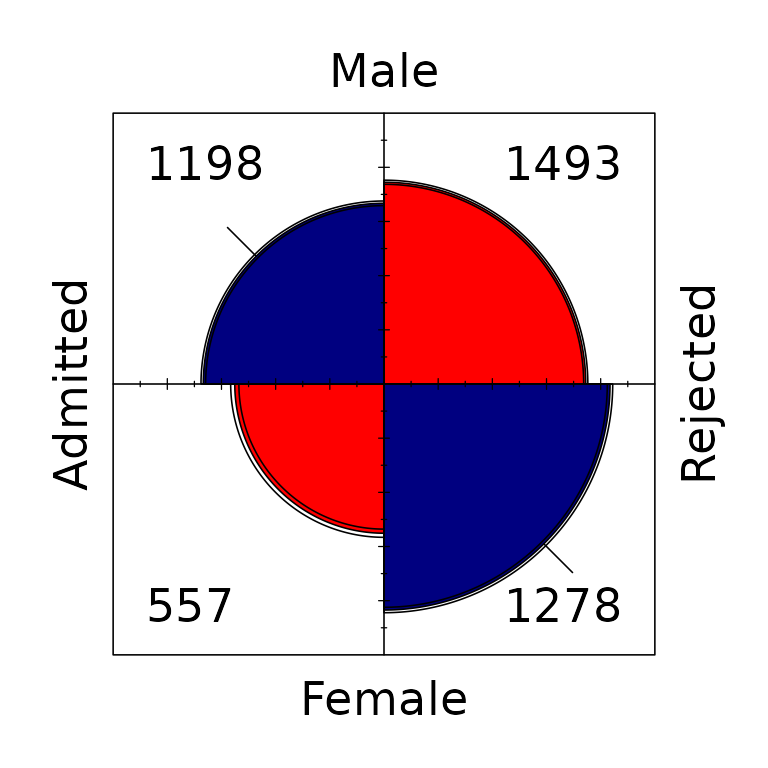
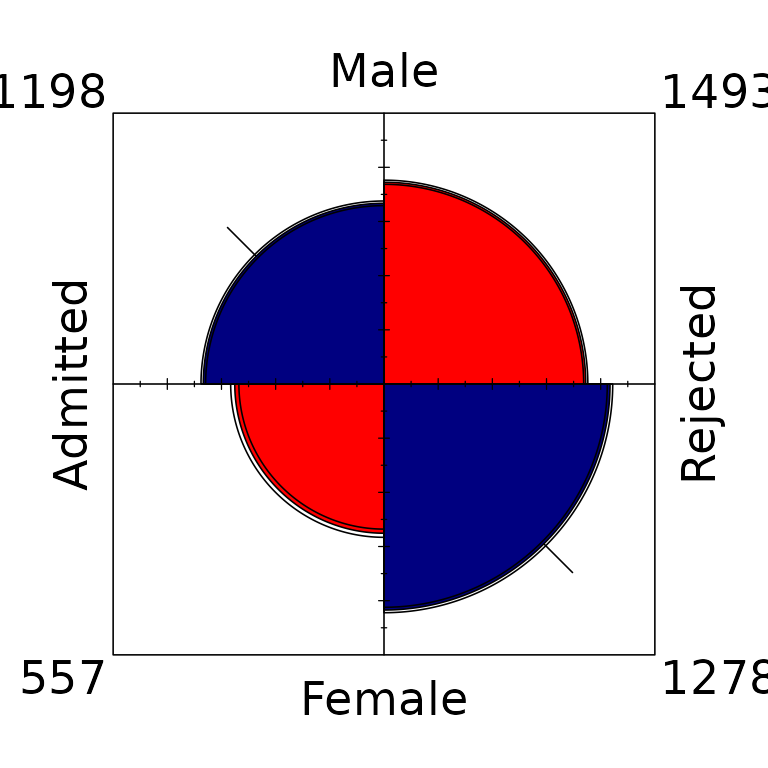
Deploying to gh-pages from @ gklorfine/ggfourfold@94f93e3d0568480470dca3d6199626c47f4bfee2 🚀

diff --git a/HANDOFF.html b/HANDOFF.html
@@ -41,6 +41,16 @@
 <div id="handoff--2026-10-01" class="section level1">
 
 <div class="section level2">
+<h2 id="status-claude-2026-10-01-counts-change-committed-and-pushed-to-main">Status (Claude, 2026-10-01): counts change committed and pushed to main<a class="anchor" aria-label="anchor" href="#status-claude-2026-10-01-counts-change-committed-and-pushed-to-main"></a></h2>
+<p>GK’s three follow-ups are done: layer-wide count values now come from <code>GeomFourfold$setup_params()</code> (no helper columns in layer data), invalid choices name their argument, and temporary paths are gone from the record. Verified: 2,826 tests pass; 1,152 ragg PNGs byte-identical to the uncommitted version, count placement identical; layer data identical to b8b9149 apart from <code>counts_reach</code>. Details: <code>issues/TASKS.md</code>. New follow-up there: two <code><a href="reference/geom_fourfold.html">geom_fourfold()</a></code> layers in one plot draw only the first.</p>
+</div>
+<div class="section level2">
+<h2 id="counts-task-implemented-gpt---claudegk-2026-10-01-since-committed">Counts task implemented (GPT -&gt; Claude/GK, 2026-10-01; since committed)<a class="anchor" aria-label="anchor" href="#counts-task-implemented-gpt---claudegk-2026-10-01-since-committed"></a></h2>
+<p>Implemented <code>dev/counts-plan.md</code> using GPT-6.1 Sol implementation and validation agents, followed by the requested independent GPT-6 Astra statistician/ggplot2 review. Both count-placement bugs are fixed; <code>counts</code> supports auto, inside, outside, and none. Drawing extent unchanged; outside spacing is a later TASKS item. Circle safety clearance is 0.04 on each axis. Shared circle label measurements exclude blank panels. Statistics and reversal-aware text alignment are preserved.</p>
+<p>Verification: 2,913 test assertions pass; all three planted bugs caught; 720 exact baseline/current statistical cases and 20 mode-invariance cases pass; 32/52 default images unchanged, all 20 changed pairs and 24 forced-mode images visually inspected. Count-removed comparisons prove only count pixels changed. The independent Sol API/docs audit and both dev scripts pass. Astra found no correctness/API defect after 320 geometry and 16 randomized statistical checks; its documentation wording refinement is applied. Final <code>R CMD check --as-cran</code> has 0 errors/warnings and 1 existing NOTE (new submission and SAS reference URL). Final post-wording check log: temporary logs, not kept. No new spelling flags.</p>
+<p>Full evidence and reviews: temporary logs, not kept; reusable harness: <code>dev/counts-verification.R</code>; implementation/results/follow-up: <code>issues/TASKS.md</code>. No commit made; await GK’s review/commit approval. Pre-existing handoff/plan/task edits were preserved and updated. Last quota check: 24% five-hour remaining, 36% weekly remaining; implementation, verification, and both reviews are complete.</p>
+</div>
+<div class="section level2">
 <h2 id="update-claude-2026-10-01-coordinate-system-change-implemented-uncommitted">Update (Claude, 2026-10-01): coordinate-system change implemented, uncommitted<a class="anchor" aria-label="anchor" href="#update-claude-2026-10-01-coordinate-system-change-implemented-uncommitted"></a></h2>
 <p>The coordinate task further below is superseded. The plan in <code>dev/coordinate-system-plan.md</code> (rewritten by Claude, agreed by GK) is implemented in the working tree, uncommitted, and recorded as done in the <code>issues/TASKS.md</code> item “The geom draws outside ggplot2’s coordinate system” (implementation, verification, reviews).</p>
 <ul><li>
@@ -66,7 +76,7 @@
 <li>Free scales with fixed panel space work; free panel space conflicts with square theme aspect. Qualify support and test both facet types.</li>
 <li>Distinguish circularity, within-panel area ratios, and cross-panel area multipliers. Prefer actionable anisotropy warning, retaining theme ownership.</li>
 <li>Numeric geometry bounds can prevent continuous.limits/expand from contracting the display; coordinate limits govern zoom. Clarify clipping and supported coordinates.</li>
-</ul><p>Experiment script: /tmp/astra-fourfold-review.R (54 lines). All version experiments used installed ggplot2 4.0.3; executing the minimum supported 4.0.0 remains a gate. The core experiment will also be preserved at <code>dev/coordinate-system-review-experiments.R</code> for the handoff. The full review records additional physical experiments not all reproduced by that core script. Current untracked files are the plan, review, and preserved experiment script. This HANDOFF update is required by CLAUDE.md; at handoff the five-hour account window was 93% used (7% remaining). Do not imply the package fix or full validation has been implemented.</p>
+</ul><p>Experiment script: a temporary file, not kept (54 lines). All version experiments used installed ggplot2 4.0.3; executing the minimum supported 4.0.0 remains a gate. The core experiment will also be preserved at <code>dev/coordinate-system-review-experiments.R</code> for the handoff. The full review records additional physical experiments not all reproduced by that core script. Current untracked files are the plan, review, and preserved experiment script. This HANDOFF update is required by CLAUDE.md; at handoff the five-hour account window was 93% used (7% remaining). Do not imply the package fix or full validation has been implemented.</p>
 <p>Suggested continuation:</p>
 <ol style="list-style-type: decimal"><li>Amend the plan for all eight Astra findings. Prioritize missing-category scale policy, coordinate precedence/provenance exception, public component return type, and precise count-placement guarantees.</li>
 <li>Preserve ordinary <code>geom_fourfold() + theme_fourfold()</code> syntax and top-first orientation. Keep aspect in the theme; coordinate reversal affects all layers.</li>
@@ -83,8 +93,8 @@
 <p>Finished the missing-value fix follow-up from the pasted Claude chat. Everything remains uncommitted on main; no package implementation changes were needed beyond Claude’s existing patch. Preserved the pre-existing CLAUDE.md and .Rbuildignore edits.</p>
 <p>Added regressions for invalid non-missing weights on missing-category rows, NA palette collisions on either axis, mixed missing-category/missing-weight panels, and all.max with Freq[2] missing (largest known cell remains in the empty panel). Warning assertions now enforce singular/plural grammar. Updated issues/TASKS.md with prior reviewer results, known limitations, margin behavior, current results, and the two pre-existing diagnostic follow-ups.</p>
 <p>Validation: 1376 assertions, no failures/warnings/skips; dev verification passes; 8 complete-data results identical to HEAD; 4 renders pixel-identical; 18 exact missing-value equivalence checks. User-requested independent subagent found no actionable findings after 24 additional equivalence cases and independently checking Titanic pooled margin counts and drawing.</p>
-<p>Network-enabled R CMD check –as-cran: 0 errors, 0 warnings, 1 NOTE (new submission and pre-existing SAS vignette reference URL lookup failure). Log is at /private/tmp/ggfourfold-codex-check/ggfourfold.Rcheck/00check.log. Use env -u DISPLAY on this Mac: XQuartz/tcltk hangs at S3 registration, as already recorded in issues/TASKS.md:55. The successful run used DISPLAY=.</p>
-<p>Claude’s clean temporary HEAD worktree was removed after comparisons and review. Original reviewer scripts/images remain in the Claude scratchpad; new rendering and verification artifacts are in /private/tmp/ggfourfold-codex-check and /private/tmp/ggfourfold-codex-verify. No commit or release performed.</p>
+<p>Network-enabled R CMD check –as-cran: 0 errors, 0 warnings, 1 NOTE (new submission and pre-existing SAS vignette reference URL lookup failure). Log: temporary log, not kept. Use env -u DISPLAY on this Mac: XQuartz/tcltk hangs at S3 registration, as already recorded in issues/TASKS.md:55. The successful run used DISPLAY=.</p>
+<p>Claude’s clean temporary HEAD worktree was removed after comparisons and review. Original reviewer scripts/images remain in the Claude scratchpad; new rendering and verification artifacts were temporary logs, not kept. No commit or release performed.</p>
 </div>
 </div>
 

diff --git a/reference/geom_fourfold.html b/reference/geom_fourfold.html
@@ -67,6 +67,7 @@ and strength of association.</p>
 <span>  ticks <span class="op">=</span> <span class="fl">0.15</span>,</span>
 <span>  p_adjust_method <span class="op">=</span> <span class="fu">stats</span><span class="fu">::</span><span class="va"><a href="https://rdrr.io/r/stats/p.adjust.html" class="external-link">p.adjust.methods</a></span>,</span>
 <span>  shape <span class="op">=</span> <span class="fu"><a href="https://rdrr.io/r/base/c.html" class="external-link">c</a></span><span class="op">(</span><span class="st">"circle"</span>, <span class="st">"square"</span><span class="op">)</span>,</span>
+<span>  counts <span class="op">=</span> <span class="fu"><a href="https://rdrr.io/r/base/c.html" class="external-link">c</a></span><span class="op">(</span><span class="st">"auto"</span>, <span class="st">"inside"</span>, <span class="st">"outside"</span>, <span class="st">"none"</span><span class="op">)</span>,</span>
 <span>  palette <span class="op">=</span> <span class="fu"><a href="fourfold_palette.html">fourfold_palette</a></span><span class="op">(</span><span class="op">)</span>,</span>
 <span>  na.rm <span class="op">=</span> <span class="cn">FALSE</span>,</span>
 <span>  show.legend <span class="op">=</span> <span class="cn">FALSE</span>,</span>
@@ -137,6 +138,13 @@ across panels. Defaults to <code>"holm"</code>, the first value in
 quarter-squares of equal area.</p></dd>
 
 
+<dt id="arg-counts">counts<a class="anchor" aria-label="anchor" href="#arg-counts"></a></dt>
+<dd><p>Placement of cell counts: <code>"auto"</code> (the default) moves counts
+outside when the drawing approaches them; <code>"inside"</code> always uses the inside
+corners, even if overlapped; <code>"outside"</code> always uses the outside corners;
+<code>"none"</code> hides the counts.</p></dd>
+
+
 <dt id="arg-palette">palette<a class="anchor" aria-label="anchor" href="#arg-palette"></a></dt>
 <dd><p>Character vector of at least six valid colours in the
 semantic order used by <code><a href="fourfold_palette.html">fourfold_palette()</a></code>.</p></dd>
@@ -194,10 +202,17 @@ intervals themselves are not adjusted.</p>
 same area as the corresponding quarter-circle (side
 \(r\sqrt{\pi}/2\) for radius \(r\)), so the two
 shapes display a table with identical areas. Confidence rings
-become nested square outlines. Cell counts stay inside the frame corners
-unless a square, confidence outline, or direction tick in any panel of the
-layer would reach them, as is always the case with <code>std = "ind.max"</code>; the
-counts in every panel are then placed just outside the frame corners.</p>
+become nested square outlines.</p>
+<p>With <code>counts = "auto"</code>, cell counts stay inside the frame corners unless
+a sector, either confidence outline, or a direction tick comes close to the
+count text. Both shapes use the largest drawing extent across the layer; circles
+also account for the width of the layer's count labels. Counts then move
+just outside the frame corners. Clearance is measured at draw time, so
+placement can differ between panels of different physical sizes.
+Use <code>counts = "inside"</code> or <code>"outside"</code> to force the placement, or <code>"none"</code>
+to hide counts without affecting any statistics. Outside counts can collide
+with category labels or neighbouring panels at small sizes; use larger
+panels, more panel spacing, smaller text, or <code>counts = "inside"</code>.</p>
 <p>The six semantic fill colours are supplied by <code>palette</code>; they are not mapped
 through a ggplot2 fill scale. Typography and layout defaults are controlled
 by <code><a href="theme_fourfold.html">theme_fourfold()</a></code>.</p>

diff --git a/HANDOFF.md b/HANDOFF.md
@@ -1,5 +1,47 @@
 # Handoff — 2026-10-01
 
+## Status (Claude, 2026-10-01): counts change committed and pushed to main
+
+GK’s three follow-ups are done: layer-wide count values now come from
+`GeomFourfold$setup_params()` (no helper columns in layer data), invalid
+choices name their argument, and temporary paths are gone from the
+record. Verified: 2,826 tests pass; 1,152 ragg PNGs byte-identical to
+the uncommitted version, count placement identical; layer data identical
+to b8b9149 apart from `counts_reach`. Details: `issues/TASKS.md`. New
+follow-up there: two
+[`geom_fourfold()`](https://gavinklorfine.com/ggfourfold/reference/geom_fourfold.md)
+layers in one plot draw only the first.
+
+## Counts task implemented (GPT -\> Claude/GK, 2026-10-01; since committed)
+
+Implemented `dev/counts-plan.md` using GPT-6.1 Sol implementation and
+validation agents, followed by the requested independent GPT-6 Astra
+statistician/ggplot2 review. Both count-placement bugs are fixed;
+`counts` supports auto, inside, outside, and none. Drawing extent
+unchanged; outside spacing is a later TASKS item. Circle safety
+clearance is 0.04 on each axis. Shared circle label measurements exclude
+blank panels. Statistics and reversal-aware text alignment are
+preserved.
+
+Verification: 2,913 test assertions pass; all three planted bugs caught;
+720 exact baseline/current statistical cases and 20 mode-invariance
+cases pass; 32/52 default images unchanged, all 20 changed pairs and 24
+forced-mode images visually inspected. Count-removed comparisons prove
+only count pixels changed. The independent Sol API/docs audit and both
+dev scripts pass. Astra found no correctness/API defect after 320
+geometry and 16 randomized statistical checks; its documentation wording
+refinement is applied. Final `R CMD check --as-cran` has 0
+errors/warnings and 1 existing NOTE (new submission and SAS reference
+URL). Final post-wording check log: temporary logs, not kept. No new
+spelling flags.
+
+Full evidence and reviews: temporary logs, not kept; reusable harness:
+`dev/counts-verification.R`; implementation/results/follow-up:
+`issues/TASKS.md`. No commit made; await GK’s review/commit approval.
+Pre-existing handoff/plan/task edits were preserved and updated. Last
+quota check: 24% five-hour remaining, 36% weekly remaining;
+implementation, verification, and both reviews are complete.
+
 ## Update (Claude, 2026-10-01): coordinate-system change implemented, uncommitted
 
 The coordinate task further below is superseded. The plan in
@@ -98,7 +140,7 @@ Main required amendments:
   contracting the display; coordinate limits govern zoom. Clarify
   clipping and supported coordinates.
 
-Experiment script: /tmp/astra-fourfold-review.R (54 lines). All version
+Experiment script: a temporary file, not kept (54 lines). All version
 experiments used installed ggplot2 4.0.3; executing the minimum
 supported 4.0.0 remains a gate. The core experiment will also be
 preserved at `dev/coordinate-system-review-experiments.R` for the
@@ -166,14 +208,11 @@ pooled margin counts and drawing.
 
 Network-enabled R CMD check –as-cran: 0 errors, 0 warnings, 1 NOTE (new
 submission and pre-existing SAS vignette reference URL lookup failure).
-Log is at
-/private/tmp/ggfourfold-codex-check/ggfourfold.Rcheck/00check.log. Use
-env -u DISPLAY on this Mac: XQuartz/tcltk hangs at S3 registration, as
-already recorded in issues/TASKS.md:55. The successful run used
-DISPLAY=.
+Log: temporary log, not kept. Use env -u DISPLAY on this Mac:
+XQuartz/tcltk hangs at S3 registration, as already recorded in
+issues/TASKS.md:55. The successful run used DISPLAY=.
 
 Claude’s clean temporary HEAD worktree was removed after comparisons and
 review. Original reviewer scripts/images remain in the Claude
-scratchpad; new rendering and verification artifacts are in
-/private/tmp/ggfourfold-codex-check and
-/private/tmp/ggfourfold-codex-verify. No commit or release performed.
+scratchpad; new rendering and verification artifacts were temporary
+logs, not kept. No commit or release performed.

diff --git a/reference/geom_fourfold.md b/reference/geom_fourfold.md
@@ -21,6 +21,7 @@ geom_fourfold(
   ticks = 0.15,
   p_adjust_method = stats::p.adjust.methods,
   shape = c("circle", "square"),
+  counts = c("auto", "inside", "outside", "none"),
   palette = fourfold_palette(),
   na.rm = FALSE,
   show.legend = FALSE,
@@ -91,6 +92,13 @@ A `GeomFourfold` ggproto object.
   [`vcd::fourfold()`](https://rdrr.io/pkg/vcd/man/fourfold.html)) draws
   quarter-circles; `"square"` draws quarter-squares of equal area.
 
+- counts:
+
+  Placement of cell counts: `"auto"` (the default) moves counts outside
+  when the drawing approaches them; `"inside"` always uses the inside
+  corners, even if overlapped; `"outside"` always uses the outside
+  corners; `"none"` hides the counts.
+
 - palette:
 
   Character vector of at least six valid colours in the semantic order
@@ -159,11 +167,19 @@ not adjusted.
 With `shape = "square"`, each cell is drawn as a quarter-square with the
 same area as the corresponding quarter-circle (side \\r\sqrt{\pi}/2\\
 for radius \\r\\), so the two shapes display a table with identical
-areas. Confidence rings become nested square outlines. Cell counts stay
-inside the frame corners unless a square, confidence outline, or
-direction tick in any panel of the layer would reach them, as is always
-the case with `std = "ind.max"`; the counts in every panel are then
-placed just outside the frame corners.
+areas. Confidence rings become nested square outlines.
+
+With `counts = "auto"`, cell counts stay inside the frame corners unless
+a sector, either confidence outline, or a direction tick comes close to
+the count text. Both shapes use the largest drawing extent across the
+layer; circles also account for the width of the layer's count labels.
+Counts then move just outside the frame corners. Clearance is measured
+at draw time, so placement can differ between panels of different
+physical sizes. Use `counts = "inside"` or `"outside"` to force the
+placement, or `"none"` to hide counts without affecting any statistics.
+Outside counts can collide with category labels or neighbouring panels
+at small sizes; use larger panels, more panel spacing, smaller text, or
+`counts = "inside"`.
 
 The six semantic fill colours are supplied by `palette`; they are not
 mapped through a ggplot2 fill scale. Typography and layout defaults are
